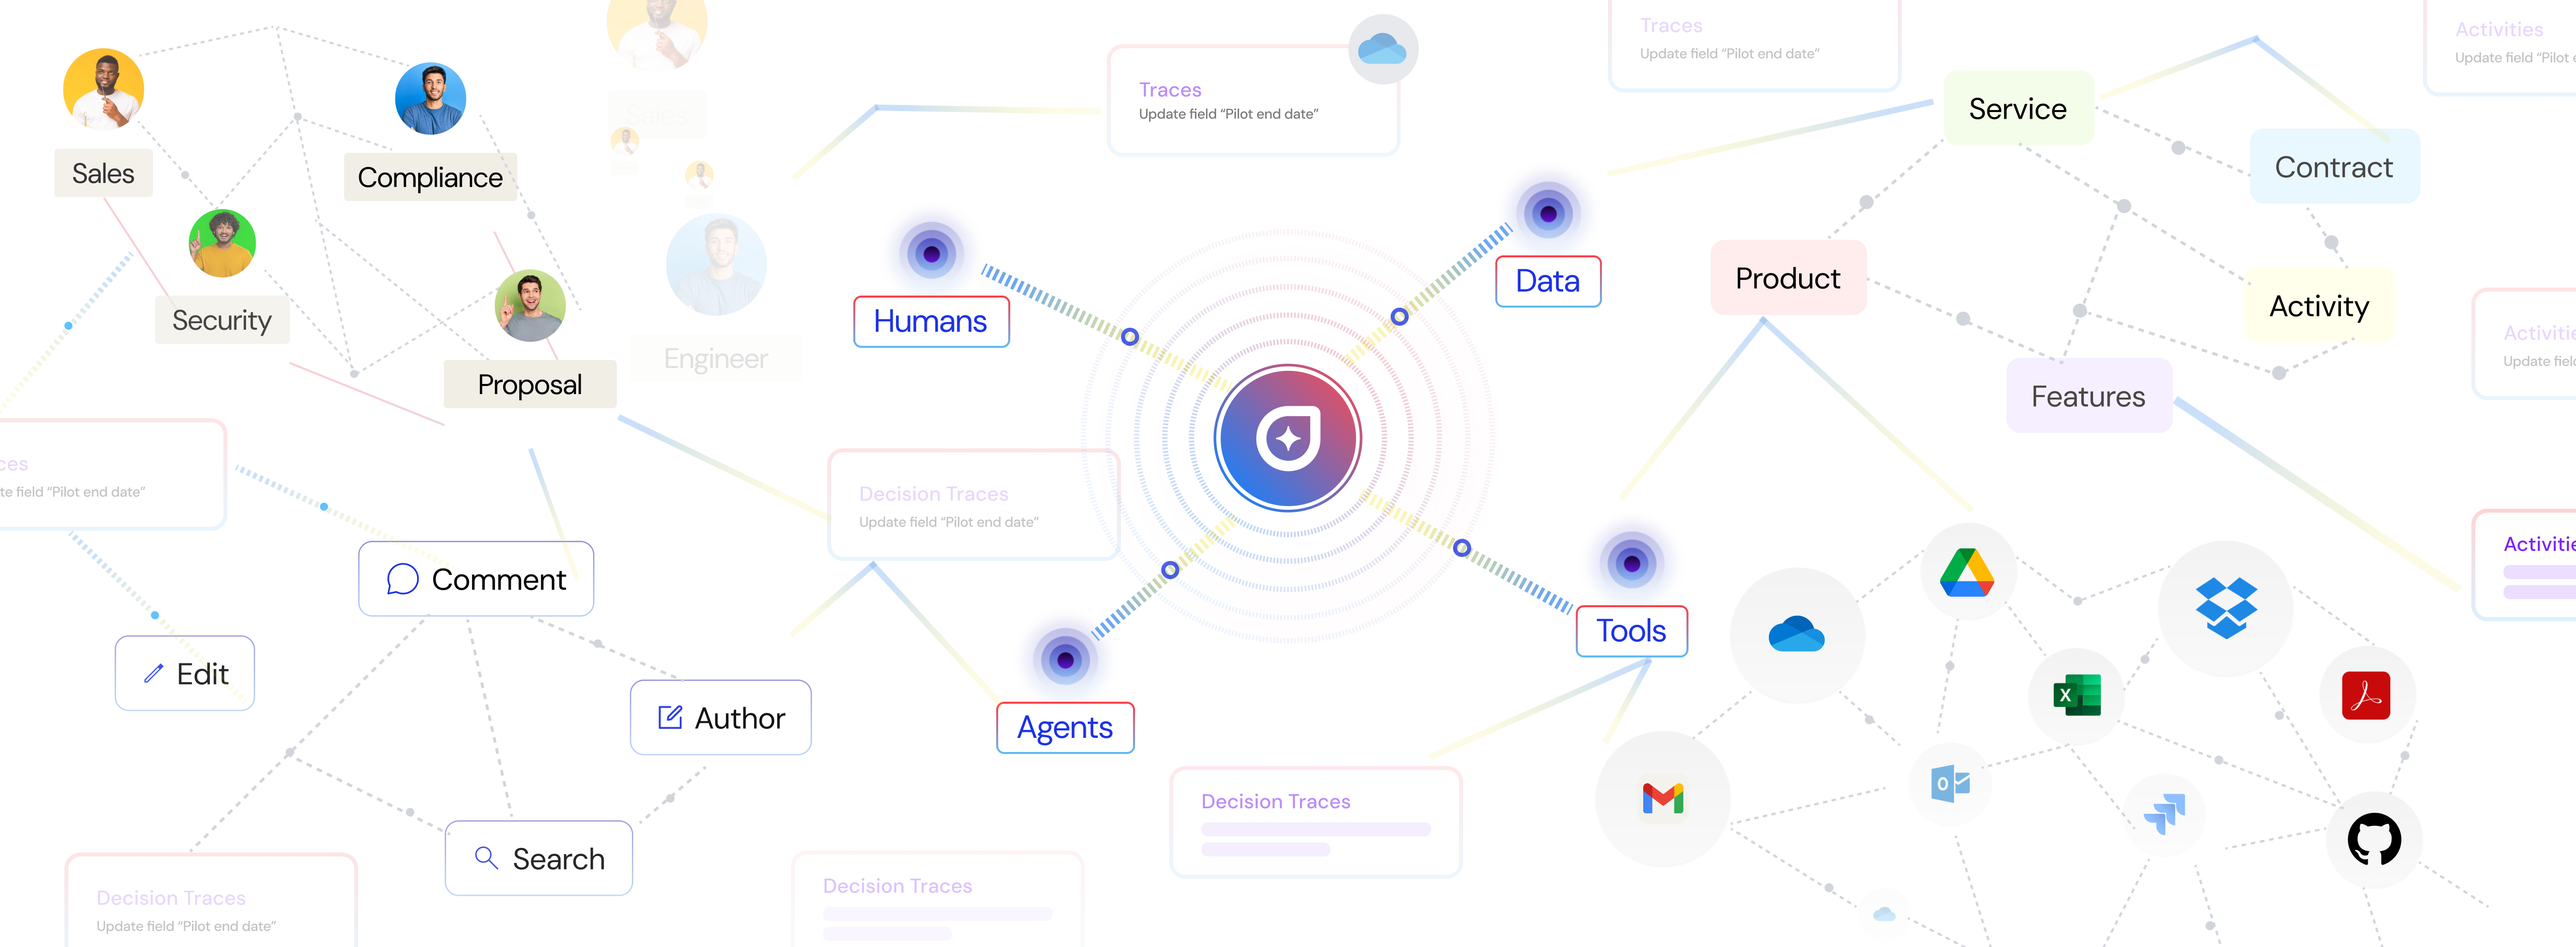
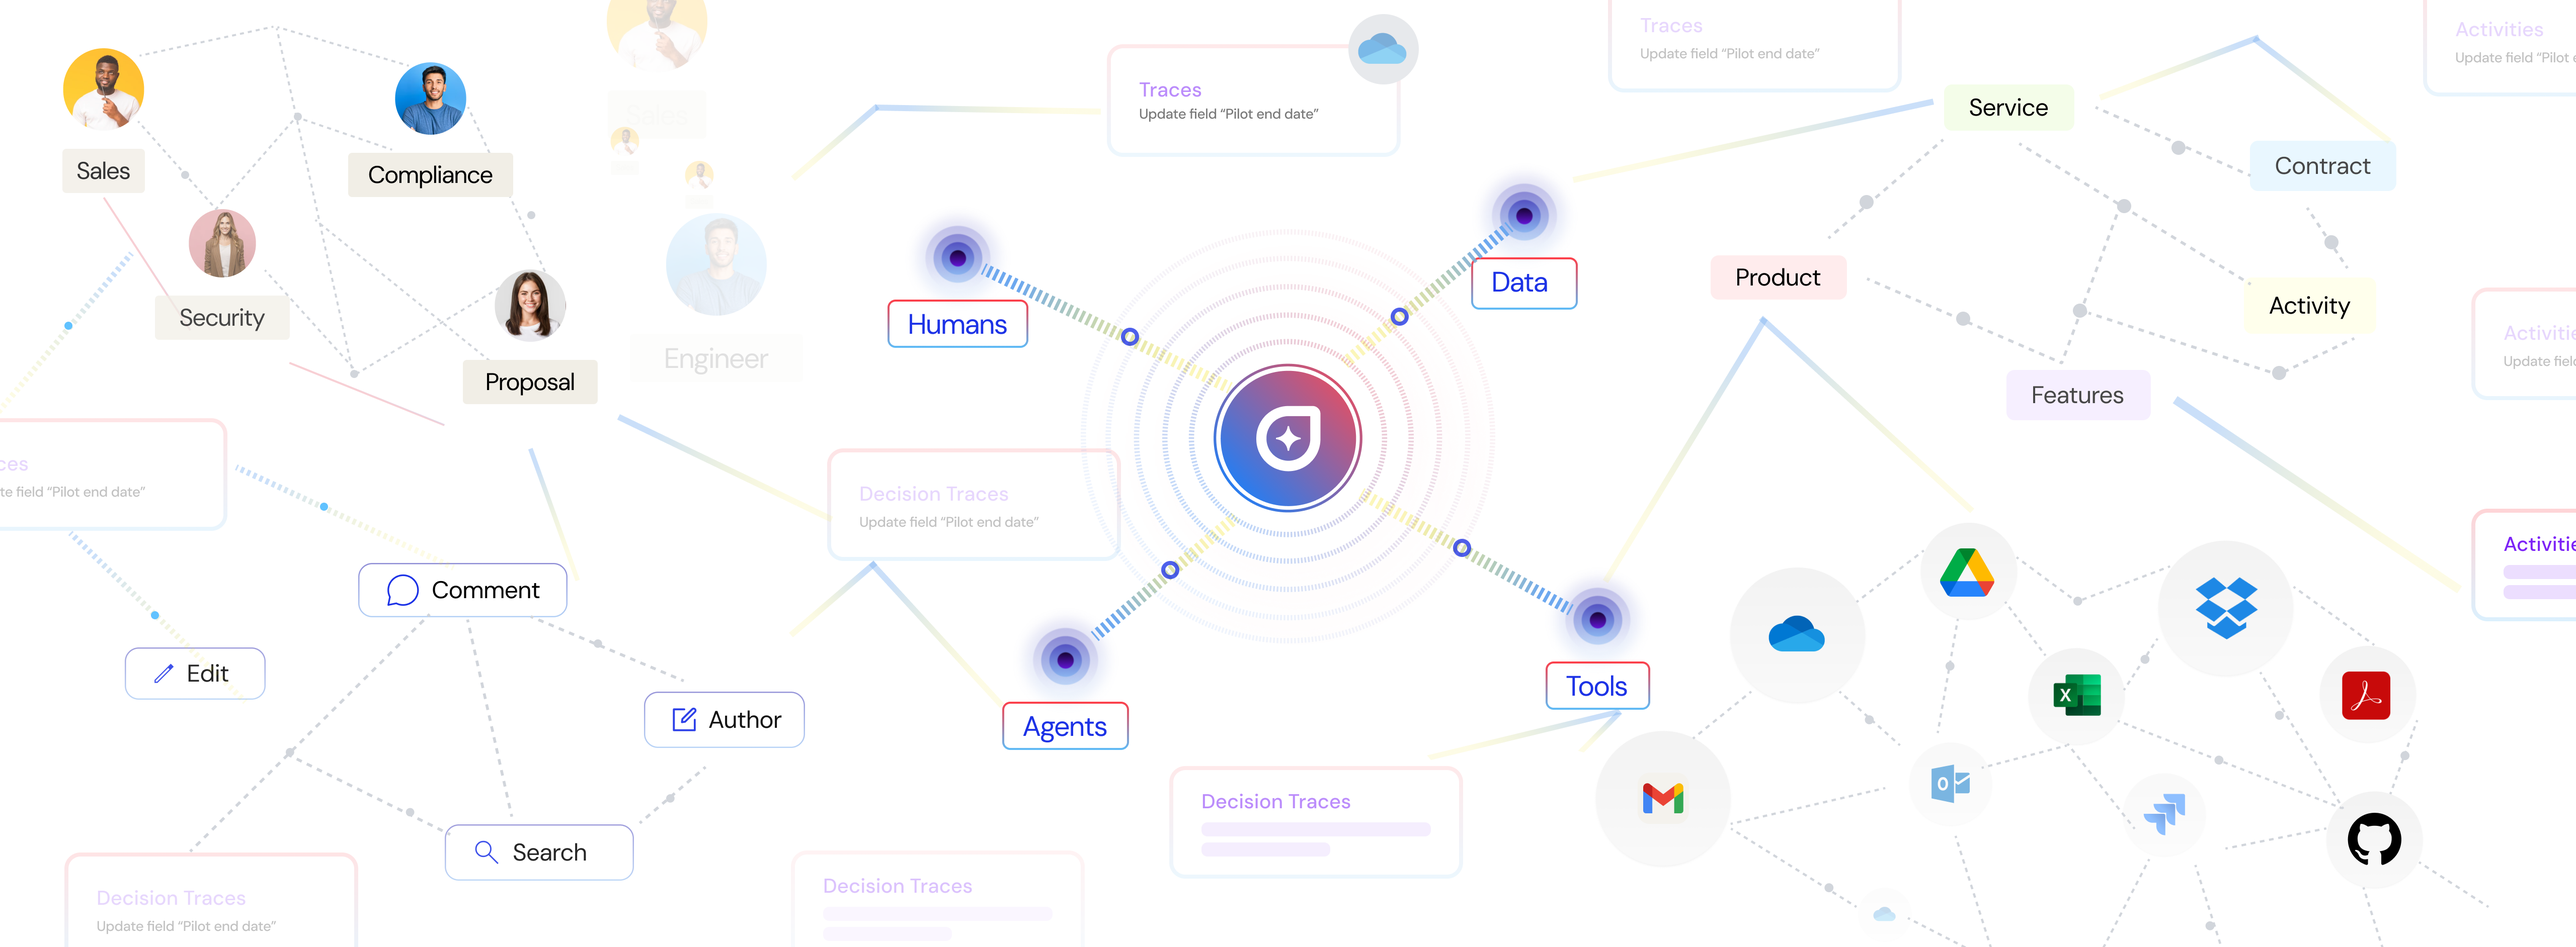
hero image changes

diff --git a/src/components/sections/HeroSection.jsx b/src/components/sections/HeroSection.jsx
@@ -2,7 +2,7 @@ import { useRef } from 'react';
 import { gsap } from 'gsap';
 import { useGsapContext } from '../../hooks/useGsapContext.js';
 import heroMobileSrc from '../../assets/hero-mob.png?format=webp&quality=80';
-import heroDesktopSrc from '../../assets/hero-3-2048.webp';
+import heroDesktopSrc from '../../assets/hero (3).png';
 
 // Served from /public/images for <link rel="preload"> in index.html to work
 const heroBgSrc = '/images/hero-bg.webp';
